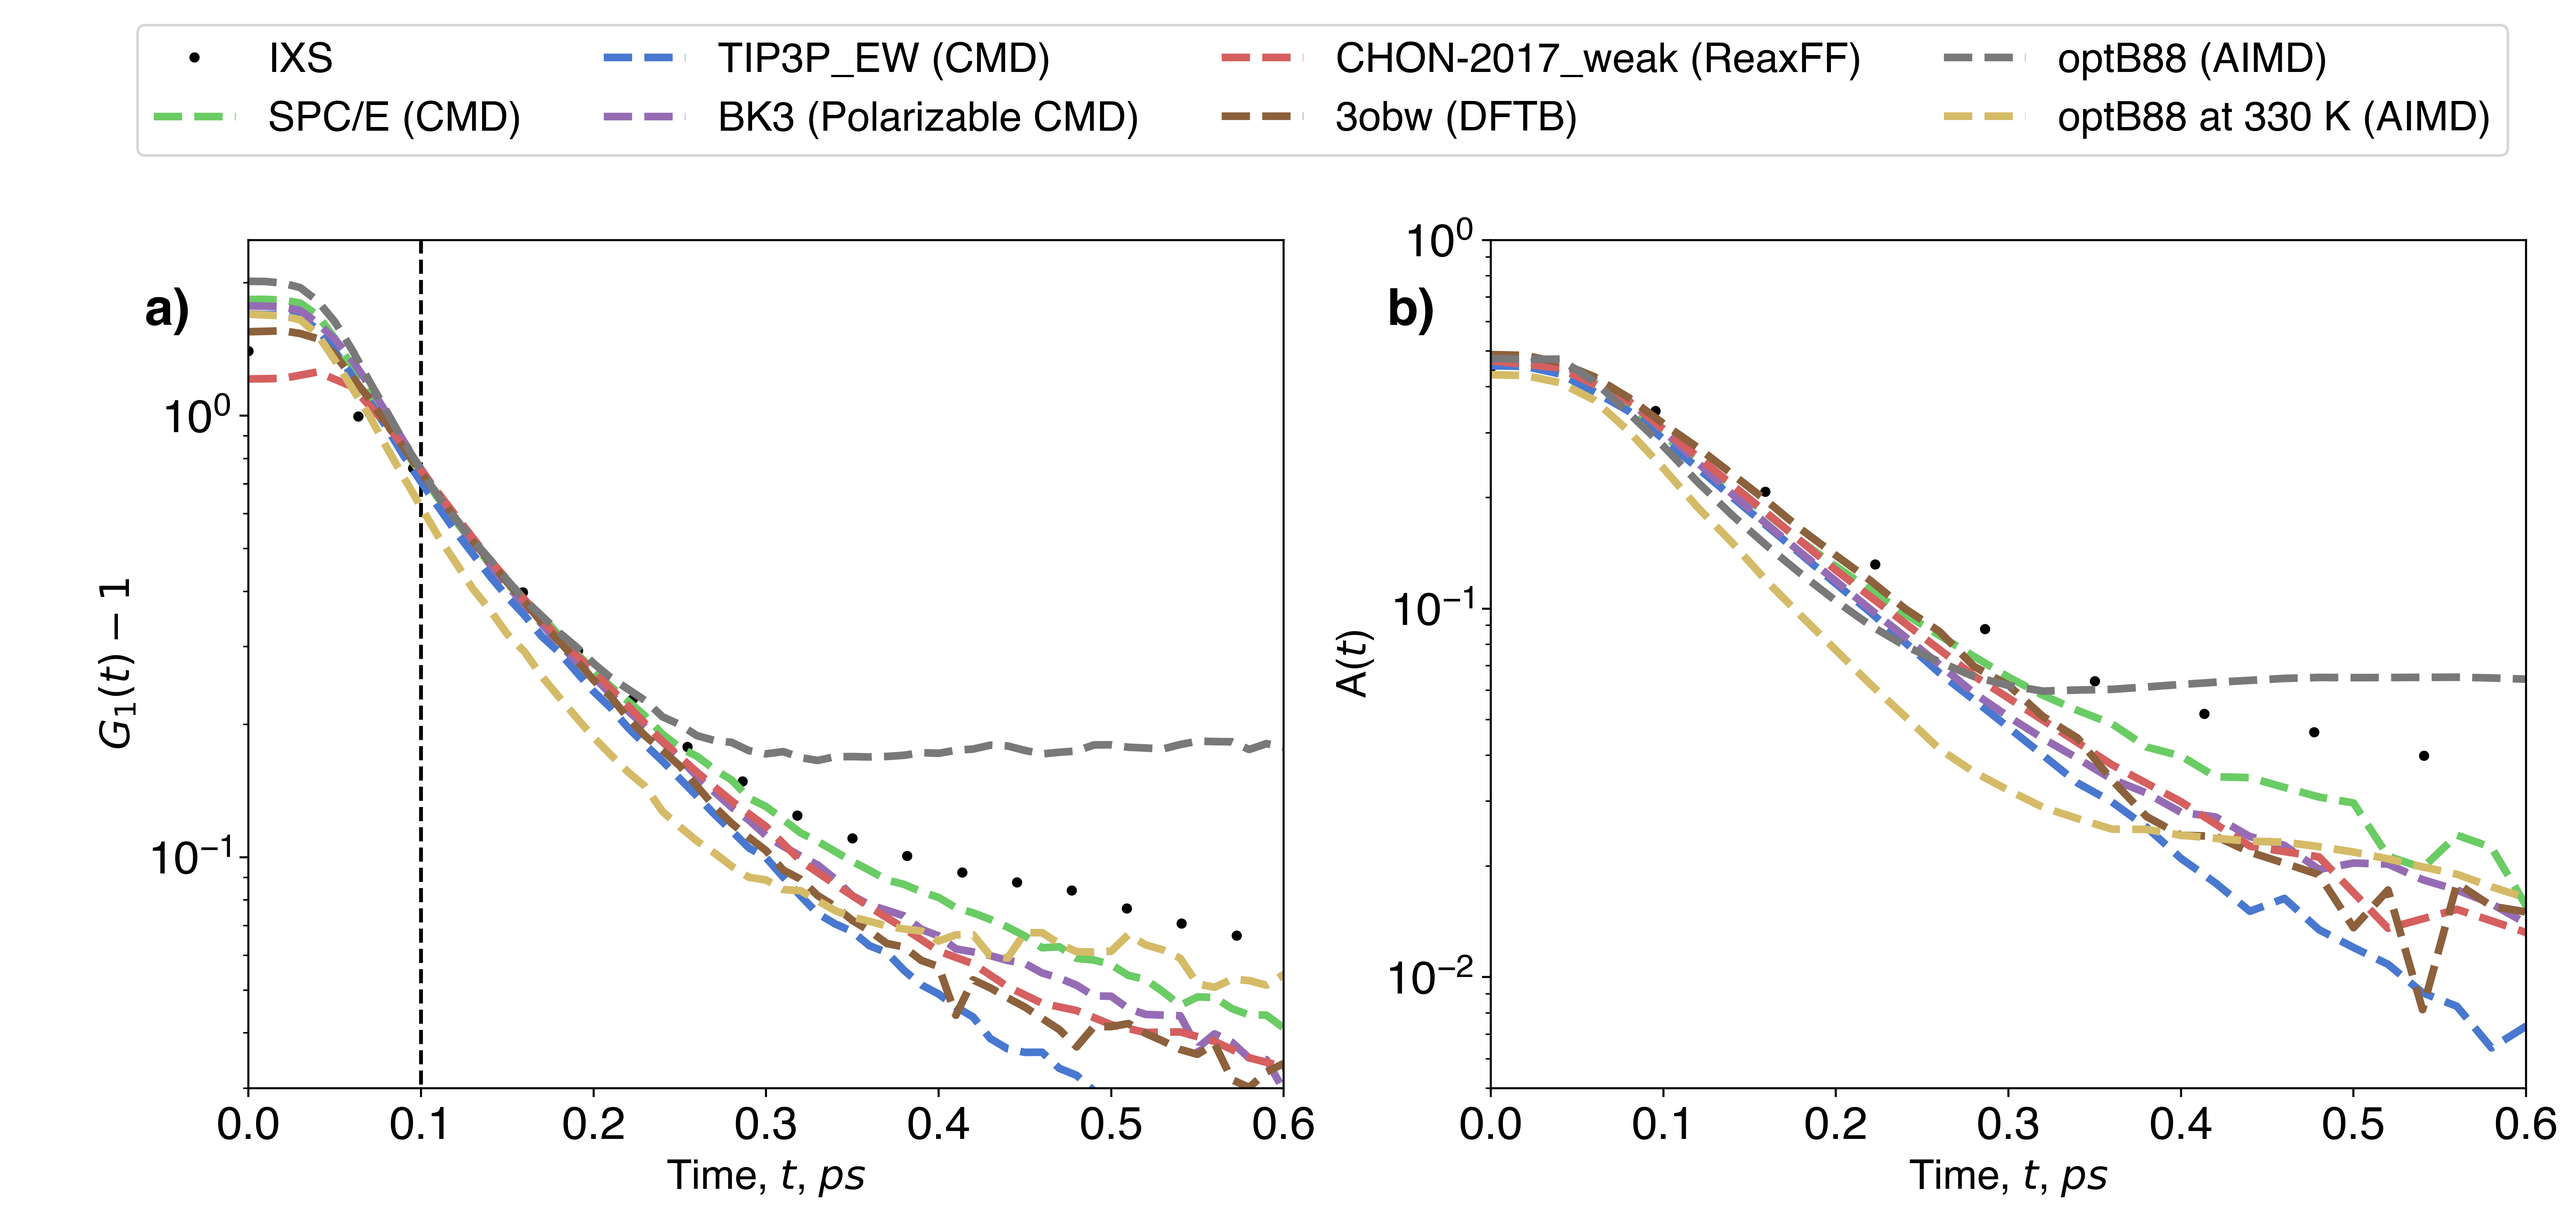
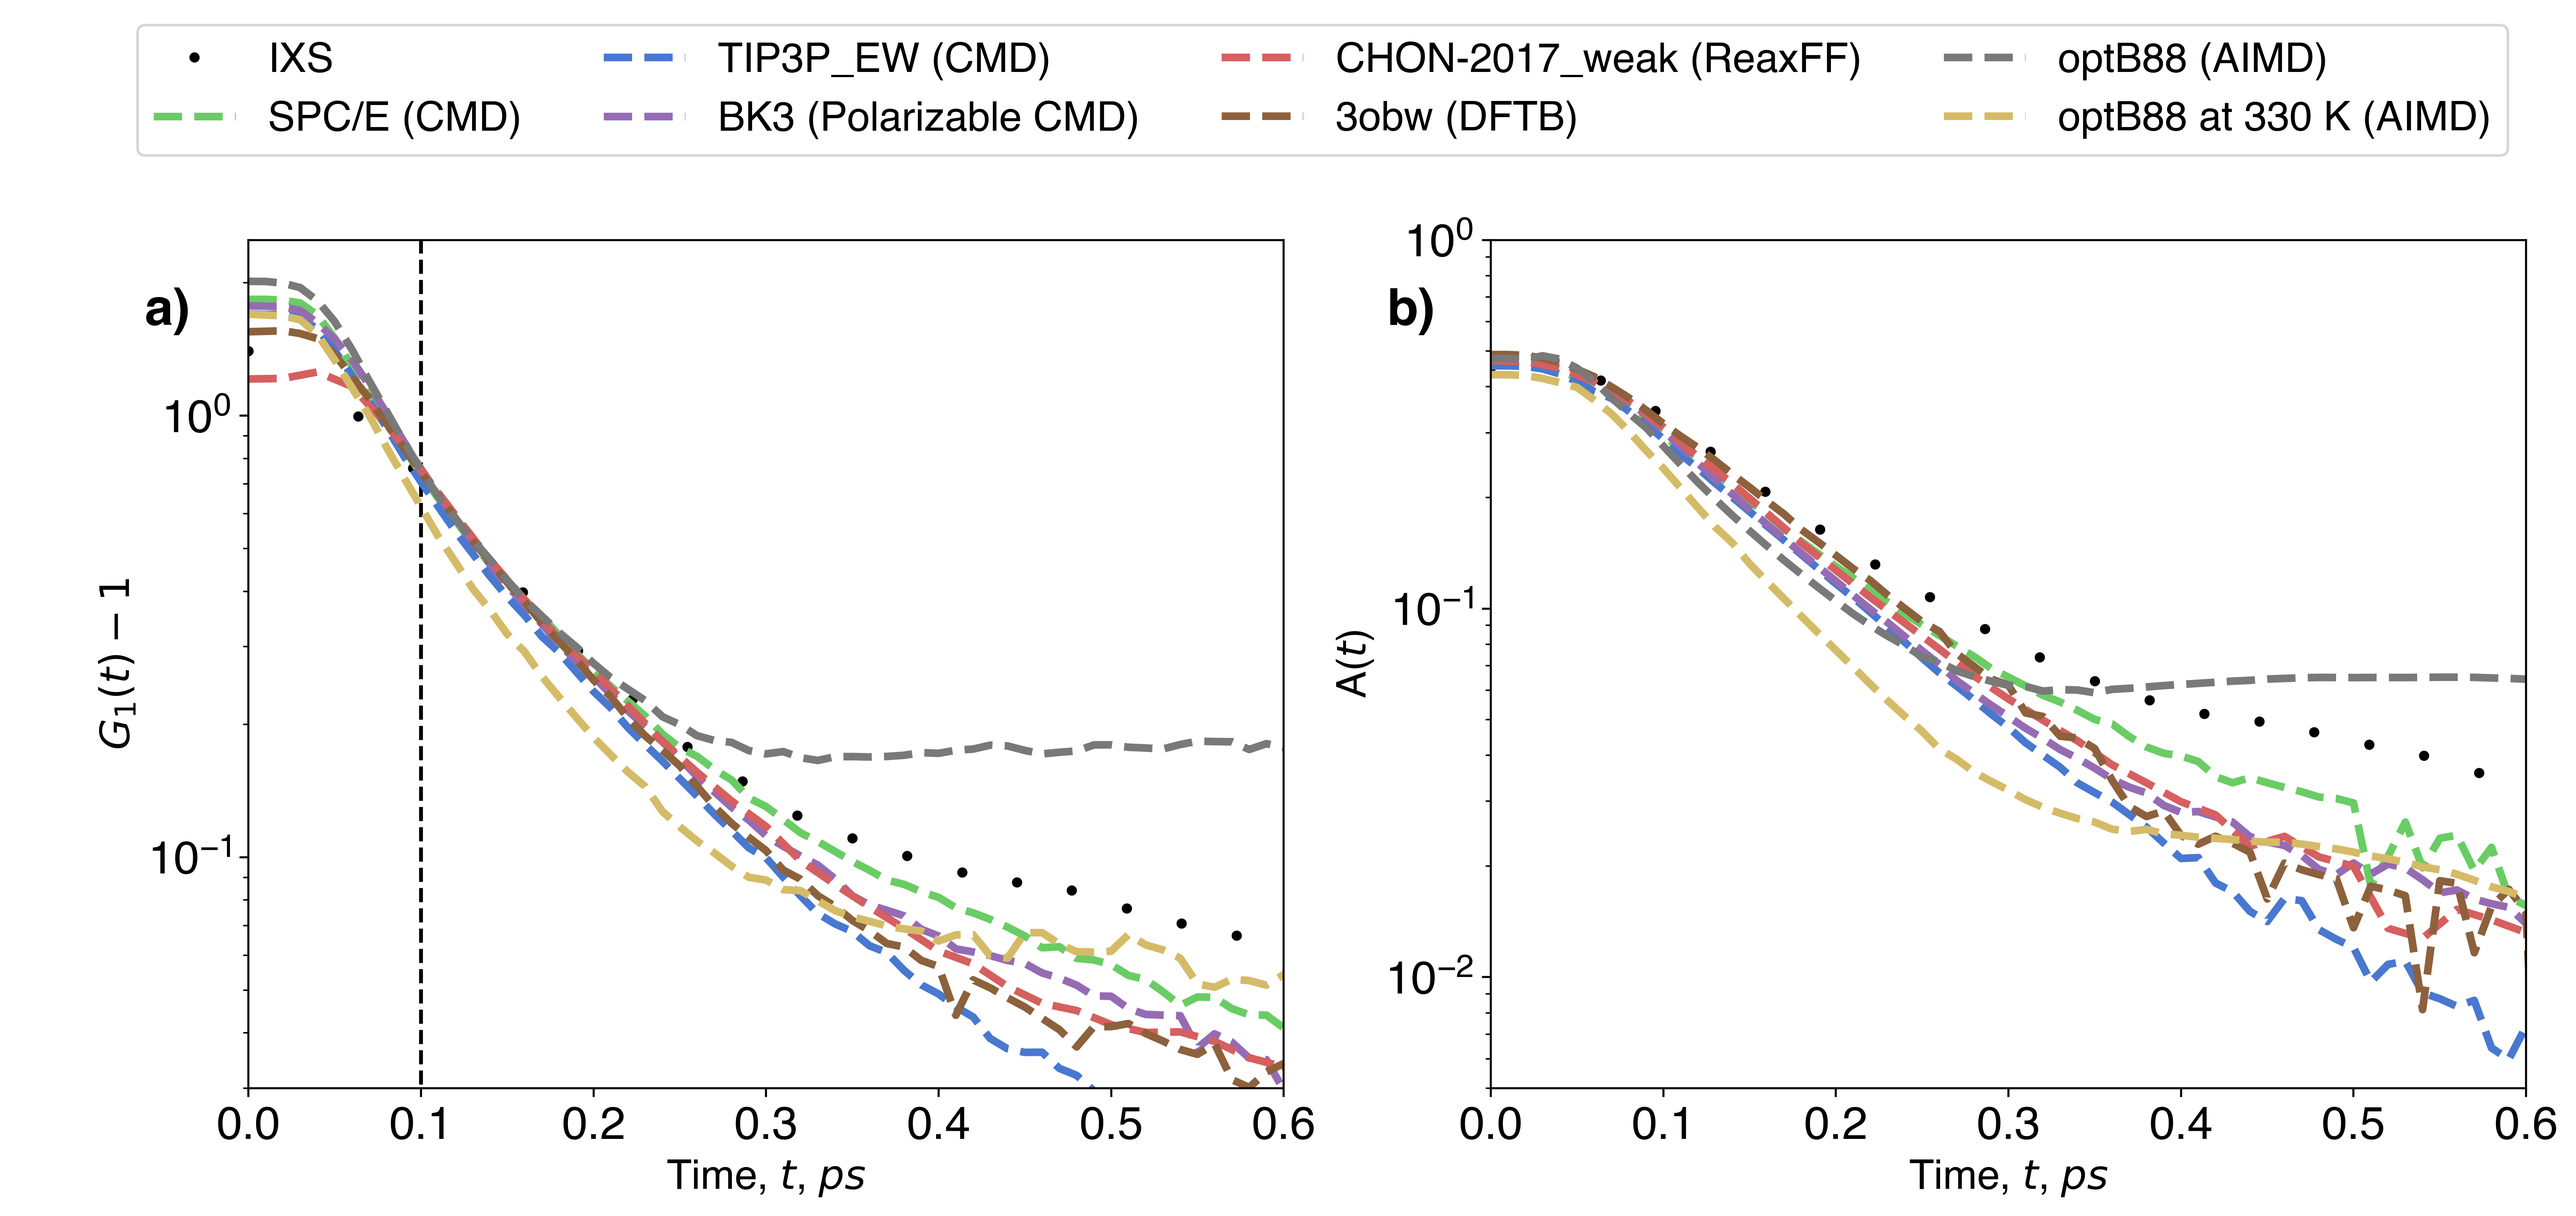
Add hot fix to plot every 10 fs for auc plot

diff --git a/water_vhf_analysis/analysis/plot_relaxation.py b/water_vhf_analysis/analysis/plot_relaxation.py
@@ -318,10 +318,8 @@ def plot_first_peak_subplot(datas, si=False, save=True):
                 maxs[i] = np.nan
                 continue
             g_range = frame[r_low:r_high]
-            # maxs[i] = find_local_maxima(data['r'], frame, r_guess=0.26)[1]
             maxs[i] = find_local_maxima(r_range, g_range, r_guess=0.28)[1]
             if data["name"] == "SPC/E":
-                # max_r.append(find_local_maxima(data['r'], frame, r_guess=0.26)[0])
                 max_r.append(find_local_maxima(r_range, g_range, r_guess=0.28)[0])
         if data["name"] == "IXS":
             ax.semilogy(
@@ -367,17 +365,16 @@ def plot_first_peak_subplot(datas, si=False, save=True):
         I[:] = np.nan
 
         # Get area under the curve
-        for i in range(0, t.shape[0], 2):
+        for i in range(0, t.shape[0]):
             I[i] = get_auc(data, i)
 
-        ls = "--"
         if data["name"] == "IXS":
-            ax.semilogy(t, I, marker=".", label=data["name"], lw=4, color="k")
+            ax.semilogy(t, I, marker=".", label=data["name"], ls='None', lw=4, color="k")
         else:
-            # Get rid of NANs with [::2]
+            ls = "--"
             ax.semilogy(
-                t[::2],
-                I[::2],
+                t,
+                I,
                 ls=ls,
                 lw=3,
                 label=data["name"],
@@ -638,11 +635,11 @@ def plot_second_subplot(datas, save=True):
 
 if __name__ == "__main__":
     # plot_first_fit()
-    first_peak_auc(datas)
-    first_peak_auc(datas, si=True)
-    plot_peak_locations(datas)
-    plot_first_peak_subplot(datas, si=True)
+    #first_peak_auc(datas)
+    #first_peak_auc(datas, si=True)
+    #plot_peak_locations(datas)
+    #plot_first_peak_subplot(datas, si=True)
     plot_first_peak_subplot(datas)
     # first_cn(datas)
-    plot_fits()
+    #plot_fits()
     # plot_second_subplot(datas)
